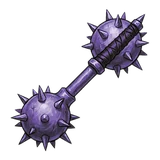
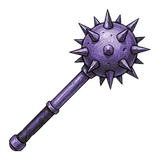
Перемальовано булаву (була схожа на дві накладені)
Claude-Session: https://claude.ai/code/session_01SEci16BNu63yGQHhzmmu9d

Changed region(s): [[0.0312, 0.0625, 0.9375, 0.9688]]

diff --git a/src/gear.js b/src/gear.js
@@ -142,7 +142,7 @@
   window.gearArt = function (slot, r, nm) {
     r = Math.max(0, Math.min(6, r || 0)); const P = PAL[r], id = ++uid, n = (nm || 0) % (CNT[slot] || 4);
     const b = back(P, r, id), f = front(P, r, 1);
-    return `<span class="gart">${b ? `<svg class="gfx gb" viewBox="0 0 64 64">${b}</svg>` : ''}<img src="assets/items/${slot}${n}_${r}.webp" alt="" loading="lazy" onerror="this.outerHTML=gearSvg('${slot}',${r},${n})">${f ? `<svg class="gfx gf" viewBox="0 0 64 64">${f}</svg>` : ''}</span>`;
+    return `<span class="gart">${b ? `<svg class="gfx gb" viewBox="0 0 64 64">${b}</svg>` : ''}<img src="assets/items/${slot}${n}_${r}.webp?v=2" alt="" loading="lazy" onerror="this.outerHTML=gearSvg('${slot}',${r},${n})">${f ? `<svg class="gfx gf" viewBox="0 0 64 64">${f}</svg>` : ''}</span>`;
   };
   // значок речі в рамці кольору рідкості
   window.gearIc = function (it, big) { return `<span class="gic r${it.r}${big ? ' big' : ''}">${window.gearArt(it.slot, it.r, it.nm)}</span>`; };

diff --git a/index.html b/index.html
@@ -262,7 +262,7 @@ body[data-scene=clan] .scene{background-image:radial-gradient(ellipse at center,
 <div class="toast" id="toast"></div>
 
 <script src="src/i18n.js?v=35"></script>
-<script src="src/gear.js?v=4"></script>
+<script src="src/gear.js?v=5"></script>
 <script src="src/game.js?v=53"></script>
 </body>
 </html>
